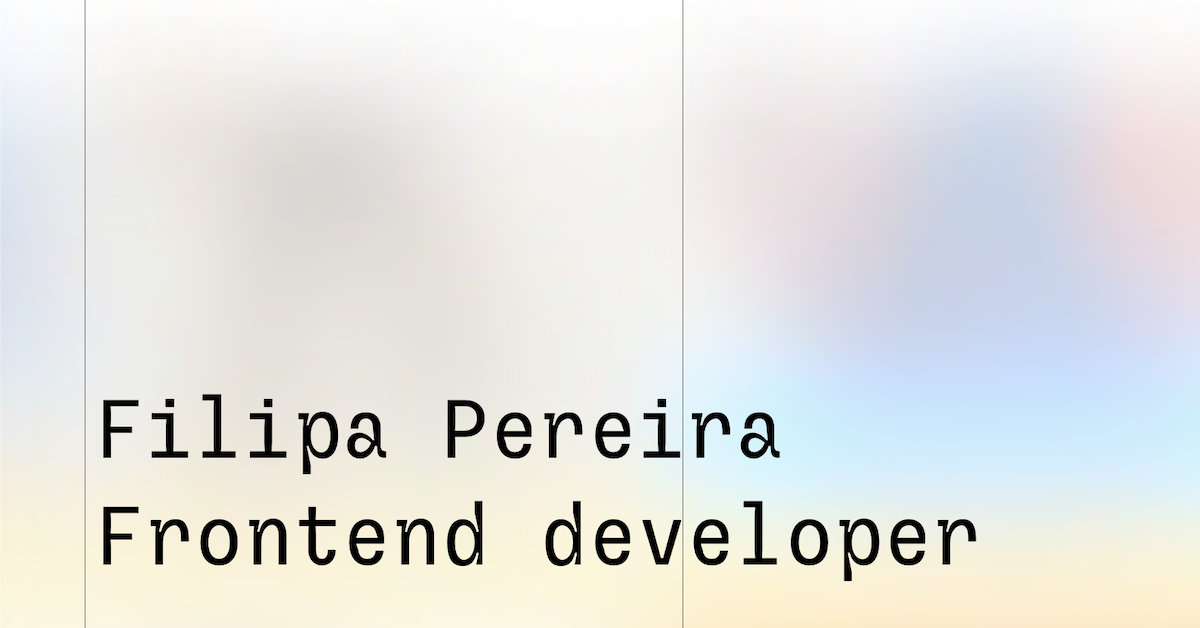
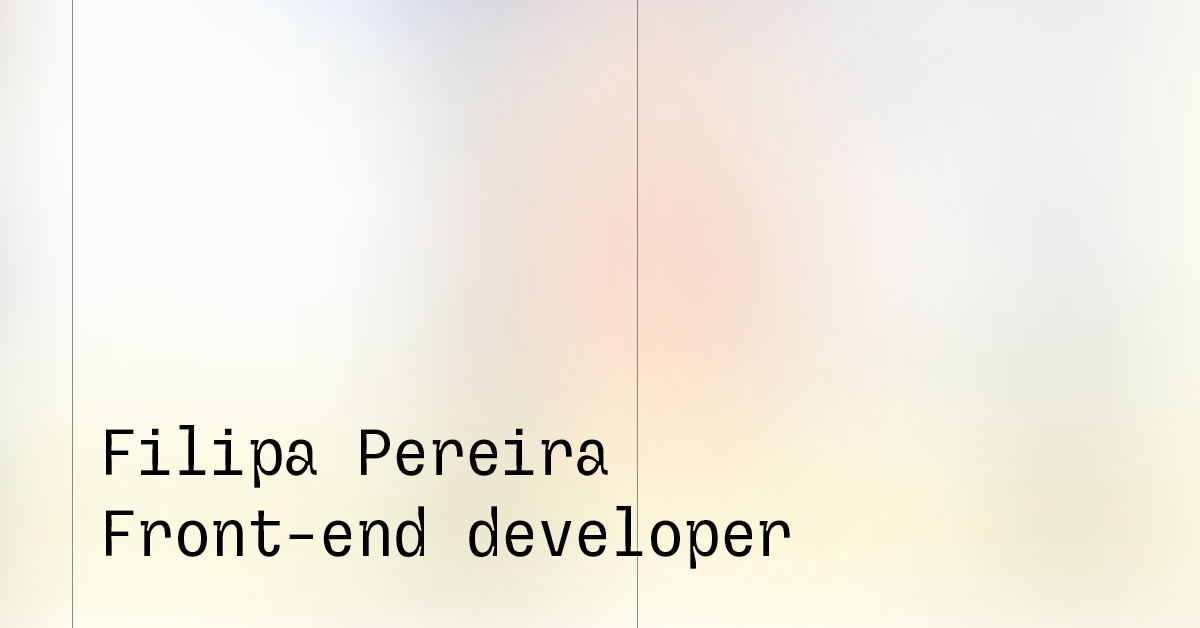
Update meta tags

diff --git a/index.html b/index.html
@@ -1,4 +1,4 @@
-<!DOCTYPE html><html lang="en-US"><head><meta charset="utf-8"><title>Filipa Pereira</title><meta name="description" content="Creative web development"><meta name="viewport" content="width=device-width, initial-scale=1"><meta property="og:title" content="Filipa Pereira"><meta property="og:type" content="website"><meta property="og:url" content="https://filipapereira.pt/"><meta property="og:image" content="/filipapereira.png"><link rel="icon" href="/favicon.bb9a04bd.ico" sizes="any"><link rel="apple-touch-icon" href="/apple-touch-icon.1f8debd3.png"><link rel="manifest" href="/site.webmanifest"><link rel="stylesheet" href="/index.b8aa9bdb.css"><meta name="theme-color" content="#fbfbfb"></head><body> <header class="header hide-sm-only hide-xs-only"> <div class="header__bg"></div> <div class="row"> <div class="col-md-1 header__column"></div> <div class="col-md-7 header__column"> <div class="header__content"> <p>Filipa Pereira</p> </div> </div> <div class="col-md-6 header__column"> <div class="header__content"> <p>Front-end developer</p> </div> </div> <div class="col-md-10 header__column"> <div class="header__content"> <p><a href="mailto:afilipaspereira@gmail.com" target="_blank">Email</a> · <a href="https://www.linkedin.com/in/filipa-pereira-78a1b39b/" target="_blank">Linkedin</a> · <a href="https://github.com/afilipapereira" target="_blank">GitHub</a></p> </div> </div> </div> </header> <header class="header hide-md"> <div class="header__bg"></div> <div class="row"> <div class="col-sm-10 col-sm-offset-2 col-xs-18 col-xs-offset-3 header__column"> <div class="header__content"> <p>Filipa Pereira</p> </div> </div> <div class="col-sm-10 header__column hide-xs-only text-right"> <div class="header__content"> <p><a href="mailto:afilipaspereira@gmail.com" target="_blank">Email</a> · <a href="https://www.linkedin.com/in/filipa-pereira-78a1b39b/" target="_blank">Linkedin</a> · <a href="https://github.com/afilipapereira" target="_blank">GitHub</a></p> </div> </div> </div> </header> <div class="hide-sm-only hide-xs-only project-bg"><img src="/automatico-studio.ee910202.gif" data-video-bg="automatico-studio" loading="lazy" alt="Blured gif of project - Automatico Studio"><img src="/ecovia-do-mondego.4845afb4.gif" data-video-bg="ecovia-do-mondego" loading="lazy" alt="Blured gif of project - Ecovia do Mondego"><img src="/high-dive.499ab1af.gif" data-video-bg="high-dive" loading="lazy" alt="Blured gif of project - High Dive"><img src="/lida.84dcda35.gif" data-video-bg="lida" loading="lazy" alt="Blured gif of project - Lida"><img src="/neuraspace.905e349a.gif" data-video-bg="neuraspace" loading="lazy" alt="Blured gif of project - Neuaspace"><img src="/no-ordinary-story.b42aa152.gif" data-video-bg="no-ordinary-story" loading="lazy" alt="Blured gif of project - No Ordinary Story"><img src="/obrien.c7e8cfcf.gif" data-video-bg="obrien" loading="lazy" alt="Blured gif of project - O'Brien Art Project Foundation"><img src="/otea-textiles.58f61bb5.gif" data-video-bg="otea-textiles" loading="lazy" alt="Blured gif of project - Otea Textiles"><img src="/partido-livre.33102cda.gif" data-video-bg="partido-livre" loading="lazy" alt="Blured gif of project - Partido Livre – Europeias 2024"><img src="/roteiros-de-coimbra.103a481f.gif" data-video-bg="roteiros-de-coimbra" loading="lazy" alt="Blured gif of project - Roteiros de Coimbra"><img src="/stephanie-gonot.29b967fc.gif" data-video-bg="stephanie-gonot" loading="lazy" alt="Blured gif of project - Stephanie Gonot"><img src="/tractor-beam.30a152ac.gif" data-video-bg="tractor-beam" loading="lazy" alt="Blured gif of project - Tractor Beam"><img src="/wah-wah.43681824.gif" data-video-bg="wah-wah" loading="lazy" alt="Blured gif of project - WAH-WAH"><img src="/wool.4ca3d1c6.gif" data-video-bg="wool" loading="lazy" alt="Blured gif of project - Wool - Covilhã Arte Urbana"><img src="/geoplanet.4c367b76.gif" data-video-bg="geoplanet" loading="lazy" alt="Blured gif of project - geoplanet.space"><img src="/barbara-buhler.c2076b2a.gif" data-video-bg="barbara-buhler" loading="lazy" alt="Blured gif of project - Barbara Bühler"><img src="/adhoc.fb523aae.gif" data-video-bg="adhoc" loading="lazy" alt="Blured gif of project - AdHoc"><img src="/iti.2af827b3.gif" data-video-bg="iti" loading="lazy" alt="Blured gif of project - ITI–LARSyS"><img src="/pallete-studio.88a26f76.gif" data-video-bg="pallete-studio" loading="lazy" alt="Blured gif of project - Pallete Studio (interactive homepage)"><img src="/alistair-matthews.754cd101.gif" data-video-bg="alistair-matthews" loading="lazy" alt="Blured gif of project - Alistair Matthews)"><img src="/amy-lombard.ee60cd99.gif" data-video-bg="amy-lombard" loading="lazy" alt="Blured gif of project - Amy Lombard)"><img src="/ana-gomes.132ba162.gif" data-video-bg="ana-gomes" loading="lazy" alt="Blured gif of project - Ana Gomes 2021)"><img src="/aspen-mays.e8b0ba20.gif" data-video-bg="aspen-mays" loading="lazy" alt="Blured gif of project - Aspen Mays)"><img src="/arpino.91ea49e9.gif" data-video-bg="arpino" loading="lazy" alt="Blured gif of project - Arpino)"><img src="/cantos.c367b2fc.gif" data-video-bg="cantos" loading="lazy" alt="Blured gif of project - Paulo Cantos)"><img src="/beverly-semmes.ba79127d.gif" data-video-bg="beverly-semmes" loading="lazy" alt="Blured gif of project - Beverly Semmes)"><img src="/cja.8618826b.gif" data-video-bg="cja" loading="lazy" alt="Blured gif of project - Cornell Journal of Architecture)"><img src="/dafne.ceebf4ea.gif" data-video-bg="dafne" loading="lazy" alt="Blured gif of project - Dafne)"><img src="/dewy-grass-club.87b187be.gif" data-video-bg="dewy-grass-club" loading="lazy" alt="Blured gif of project - Dewy Grass Club)"><img src="/dja.37544629.gif" data-video-bg="dja" loading="lazy" alt="Blured gif of project - David Jaehning Architect)"><img src="/document.94e0ecdf.gif" data-video-bg="document" loading="lazy" alt="Blured gif of project - DOCUMENT)"><img src="/eric-moe.d8343f32.gif" data-video-bg="eric-moe" loading="lazy" alt="Blured gif of project - Eric Moe)"><img src="/esporo.67d40a13.gif" data-video-bg="esporo" loading="lazy" alt="Blured gif of project - Esporo Cultura)"><img src="/hacking-finance.2759c34e.gif" data-video-bg="hacking-finance" loading="lazy" alt="Blured gif of project - Hacking Finance)"><img src="/human-resources.87101628.gif" data-video-bg="human-resources" loading="lazy" alt="Blured gif of project - Human Resources)"><img src="/kamrooz.ead1e078.gif" data-video-bg="kamrooz" loading="lazy" alt="Blured gif of project - Kamrooz Aram)"><img src="/modern-matter.b10add26.gif" data-video-bg="modern-matter" loading="lazy" alt="Blured gif of project - Modern Matter)"><img src="/museu.6e74337e.gif" data-video-bg="museu" loading="lazy" alt="Blured gif of project - Museu do Porto)"><img src="/new-bauhaus.a08abac8.gif" data-video-bg="new-bauhaus" loading="lazy" alt="Blured gif of project - New Bauhaus)"><img src="/oliva.41909ba9.gif" data-video-bg="oliva" loading="lazy" alt="Blured gif of project - Centro de Arte Oliva)"><img src="/ooo.76bd3c77.gif" data-video-bg="ooo" loading="lazy" alt="Blured gif of project - Out of Office)"><img src="/silence.d15fe0b8.gif" data-video-bg="silence" loading="lazy" alt="Blured gif of project - Sanctuaries of Silence)"><img src="/some-all-none.a4dbc894.gif" data-video-bg="some-all-none" loading="lazy" alt="Blured gif of project - Some All None)"><img src="/cinema-insuflavel.4e9339e1.gif" data-video-bg="cinema-insuflavel" loading="lazy" alt="Blured gif of project - Cinema Insuflável"><img src="/historia-do-crime.2057220f.gif" data-video-bg="historia-do-crime" loading="lazy" alt="Blured gif of project - História do Crime by João Louro"><img src="/corn-tastes-better.40c63741.gif" data-video-bg="corn-tastes-better" loading="lazy" alt="Blured gif of project - Corn Tastes Better on the Honour System"></div> <div class="page-container"> <div class="about"> <div class="about row"> <div class="about__column col-md-22 col-md-offset-1 col-sm-19 col-sm-offset-2 col-xs-20 col-xs-offset-3"> <div class="about__content"> <p class="hide-sm-only hide-xs-only" data-about-paragraph-desktop="" data-about-text="Filipa Pereira, a creative and detail-oriented
+<!DOCTYPE html><html lang="en-US"><head><meta charset="utf-8"><title>Filipa Pereira</title><meta name="description" content="Front-end Developer"><meta name="viewport" content="width=device-width, initial-scale=1"><meta property="og:title" content="Filipa Pereira"><meta property="og:type" content="website"><meta property="og:url" content="https://filipapereira.pt/"><meta property="og:image" content="/filipapereira.png"><link rel="icon" href="/favicon.bb9a04bd.ico" sizes="any"><link rel="apple-touch-icon" href="/apple-touch-icon.1f8debd3.png"><link rel="manifest" href="/site.webmanifest"><link rel="stylesheet" href="/index.b8aa9bdb.css"><meta name="theme-color" content="#fbfbfb"></head><body> <header class="header hide-sm-only hide-xs-only"> <div class="header__bg"></div> <div class="row"> <div class="col-md-1 header__column"></div> <div class="col-md-7 header__column"> <div class="header__content"> <p>Filipa Pereira</p> </div> </div> <div class="col-md-6 header__column"> <div class="header__content"> <p>Front-end developer</p> </div> </div> <div class="col-md-10 header__column"> <div class="header__content"> <p><a href="mailto:afilipaspereira@gmail.com" target="_blank">Email</a> · <a href="https://www.linkedin.com/in/filipa-pereira-78a1b39b/" target="_blank">Linkedin</a> · <a href="https://github.com/afilipapereira" target="_blank">GitHub</a></p> </div> </div> </div> </header> <header class="header hide-md"> <div class="header__bg"></div> <div class="row"> <div class="col-sm-10 col-sm-offset-2 col-xs-18 col-xs-offset-3 header__column"> <div class="header__content"> <p>Filipa Pereira</p> </div> </div> <div class="col-sm-10 header__column hide-xs-only text-right"> <div class="header__content"> <p><a href="mailto:afilipaspereira@gmail.com" target="_blank">Email</a> · <a href="https://www.linkedin.com/in/filipa-pereira-78a1b39b/" target="_blank">Linkedin</a> · <a href="https://github.com/afilipapereira" target="_blank">GitHub</a></p> </div> </div> </div> </header> <div class="hide-sm-only hide-xs-only project-bg"><img src="/automatico-studio.ee910202.gif" data-video-bg="automatico-studio" loading="lazy" alt="Blured gif of project - Automatico Studio"><img src="/ecovia-do-mondego.4845afb4.gif" data-video-bg="ecovia-do-mondego" loading="lazy" alt="Blured gif of project - Ecovia do Mondego"><img src="/high-dive.499ab1af.gif" data-video-bg="high-dive" loading="lazy" alt="Blured gif of project - High Dive"><img src="/lida.84dcda35.gif" data-video-bg="lida" loading="lazy" alt="Blured gif of project - Lida"><img src="/neuraspace.905e349a.gif" data-video-bg="neuraspace" loading="lazy" alt="Blured gif of project - Neuaspace"><img src="/no-ordinary-story.b42aa152.gif" data-video-bg="no-ordinary-story" loading="lazy" alt="Blured gif of project - No Ordinary Story"><img src="/obrien.c7e8cfcf.gif" data-video-bg="obrien" loading="lazy" alt="Blured gif of project - O'Brien Art Project Foundation"><img src="/otea-textiles.58f61bb5.gif" data-video-bg="otea-textiles" loading="lazy" alt="Blured gif of project - Otea Textiles"><img src="/partido-livre.33102cda.gif" data-video-bg="partido-livre" loading="lazy" alt="Blured gif of project - Partido Livre – Europeias 2024"><img src="/roteiros-de-coimbra.103a481f.gif" data-video-bg="roteiros-de-coimbra" loading="lazy" alt="Blured gif of project - Roteiros de Coimbra"><img src="/stephanie-gonot.29b967fc.gif" data-video-bg="stephanie-gonot" loading="lazy" alt="Blured gif of project - Stephanie Gonot"><img src="/tractor-beam.30a152ac.gif" data-video-bg="tractor-beam" loading="lazy" alt="Blured gif of project - Tractor Beam"><img src="/wah-wah.43681824.gif" data-video-bg="wah-wah" loading="lazy" alt="Blured gif of project - WAH-WAH"><img src="/wool.4ca3d1c6.gif" data-video-bg="wool" loading="lazy" alt="Blured gif of project - Wool - Covilhã Arte Urbana"><img src="/geoplanet.4c367b76.gif" data-video-bg="geoplanet" loading="lazy" alt="Blured gif of project - geoplanet.space"><img src="/barbara-buhler.c2076b2a.gif" data-video-bg="barbara-buhler" loading="lazy" alt="Blured gif of project - Barbara Bühler"><img src="/adhoc.fb523aae.gif" data-video-bg="adhoc" loading="lazy" alt="Blured gif of project - AdHoc"><img src="/iti.2af827b3.gif" data-video-bg="iti" loading="lazy" alt="Blured gif of project - ITI–LARSyS"><img src="/pallete-studio.88a26f76.gif" data-video-bg="pallete-studio" loading="lazy" alt="Blured gif of project - Pallete Studio (interactive homepage)"><img src="/alistair-matthews.754cd101.gif" data-video-bg="alistair-matthews" loading="lazy" alt="Blured gif of project - Alistair Matthews)"><img src="/amy-lombard.ee60cd99.gif" data-video-bg="amy-lombard" loading="lazy" alt="Blured gif of project - Amy Lombard)"><img src="/ana-gomes.132ba162.gif" data-video-bg="ana-gomes" loading="lazy" alt="Blured gif of project - Ana Gomes 2021)"><img src="/aspen-mays.e8b0ba20.gif" data-video-bg="aspen-mays" loading="lazy" alt="Blured gif of project - Aspen Mays)"><img src="/arpino.91ea49e9.gif" data-video-bg="arpino" loading="lazy" alt="Blured gif of project - Arpino)"><img src="/cantos.c367b2fc.gif" data-video-bg="cantos" loading="lazy" alt="Blured gif of project - Paulo Cantos)"><img src="/beverly-semmes.ba79127d.gif" data-video-bg="beverly-semmes" loading="lazy" alt="Blured gif of project - Beverly Semmes)"><img src="/cja.8618826b.gif" data-video-bg="cja" loading="lazy" alt="Blured gif of project - Cornell Journal of Architecture)"><img src="/dafne.ceebf4ea.gif" data-video-bg="dafne" loading="lazy" alt="Blured gif of project - Dafne)"><img src="/dewy-grass-club.87b187be.gif" data-video-bg="dewy-grass-club" loading="lazy" alt="Blured gif of project - Dewy Grass Club)"><img src="/dja.37544629.gif" data-video-bg="dja" loading="lazy" alt="Blured gif of project - David Jaehning Architect)"><img src="/document.94e0ecdf.gif" data-video-bg="document" loading="lazy" alt="Blured gif of project - DOCUMENT)"><img src="/eric-moe.d8343f32.gif" data-video-bg="eric-moe" loading="lazy" alt="Blured gif of project - Eric Moe)"><img src="/esporo.67d40a13.gif" data-video-bg="esporo" loading="lazy" alt="Blured gif of project - Esporo Cultura)"><img src="/hacking-finance.2759c34e.gif" data-video-bg="hacking-finance" loading="lazy" alt="Blured gif of project - Hacking Finance)"><img src="/human-resources.87101628.gif" data-video-bg="human-resources" loading="lazy" alt="Blured gif of project - Human Resources)"><img src="/kamrooz.ead1e078.gif" data-video-bg="kamrooz" loading="lazy" alt="Blured gif of project - Kamrooz Aram)"><img src="/modern-matter.b10add26.gif" data-video-bg="modern-matter" loading="lazy" alt="Blured gif of project - Modern Matter)"><img src="/museu.6e74337e.gif" data-video-bg="museu" loading="lazy" alt="Blured gif of project - Museu do Porto)"><img src="/new-bauhaus.a08abac8.gif" data-video-bg="new-bauhaus" loading="lazy" alt="Blured gif of project - New Bauhaus)"><img src="/oliva.41909ba9.gif" data-video-bg="oliva" loading="lazy" alt="Blured gif of project - Centro de Arte Oliva)"><img src="/ooo.76bd3c77.gif" data-video-bg="ooo" loading="lazy" alt="Blured gif of project - Out of Office)"><img src="/silence.d15fe0b8.gif" data-video-bg="silence" loading="lazy" alt="Blured gif of project - Sanctuaries of Silence)"><img src="/some-all-none.a4dbc894.gif" data-video-bg="some-all-none" loading="lazy" alt="Blured gif of project - Some All None)"><img src="/cinema-insuflavel.4e9339e1.gif" data-video-bg="cinema-insuflavel" loading="lazy" alt="Blured gif of project - Cinema Insuflável"><img src="/historia-do-crime.2057220f.gif" data-video-bg="historia-do-crime" loading="lazy" alt="Blured gif of project - História do Crime by João Louro"><img src="/corn-tastes-better.40c63741.gif" data-video-bg="corn-tastes-better" loading="lazy" alt="Blured gif of project - Corn Tastes Better on the Honour System"></div> <div class="page-container"> <div class="about"> <div class="about row"> <div class="about__column col-md-22 col-md-offset-1 col-sm-19 col-sm-offset-2 col-xs-20 col-xs-offset-3"> <div class="about__content"> <p class="hide-sm-only hide-xs-only" data-about-paragraph-desktop="" data-about-text="Filipa Pereira, a creative and detail-oriented
 front-end developer currently crafting digital
 experiences at Maria Adelaide, a studio focused
 on customized web development.
